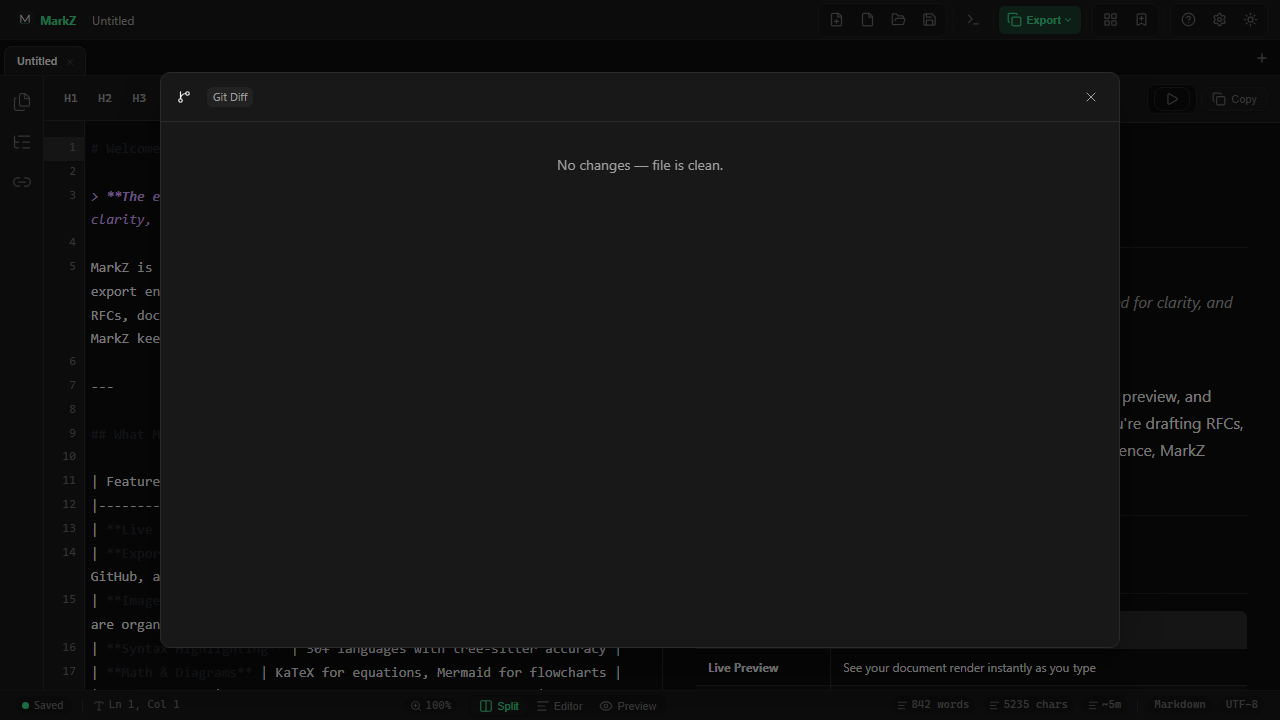
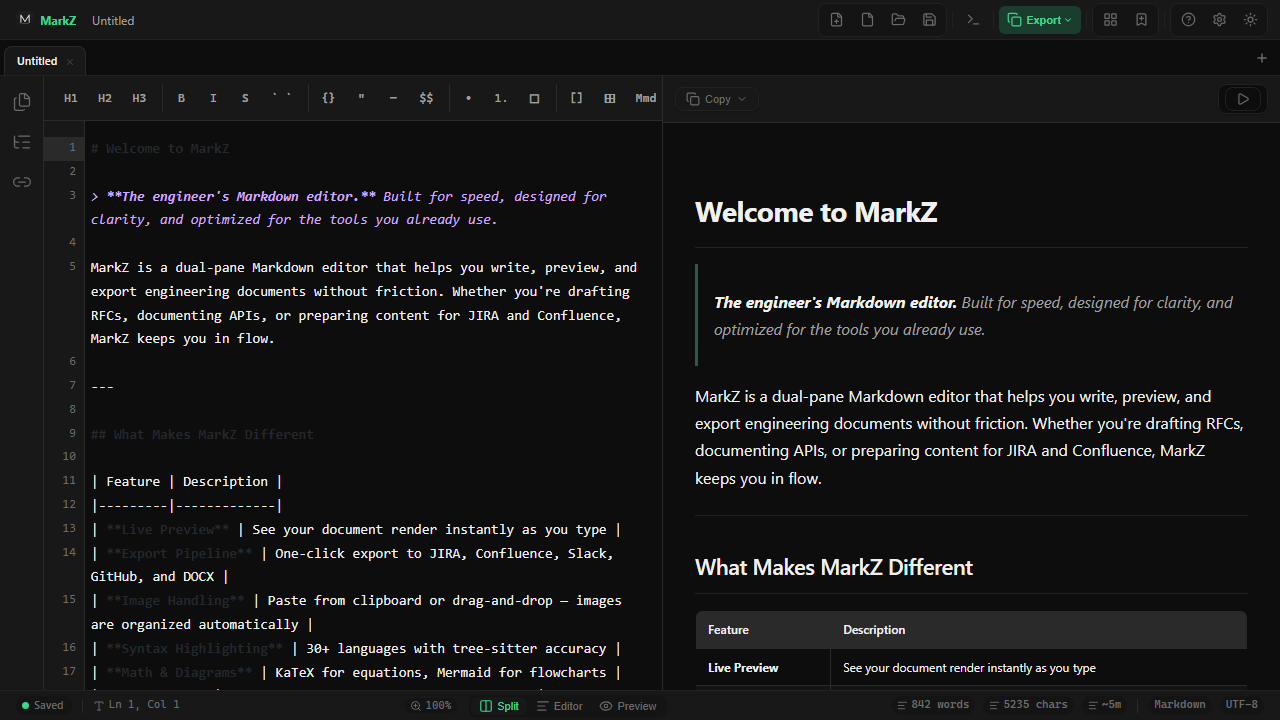
fix(git_diff): prepend origin prefixes for hunk lines + add diff E2E tests
- Rust git_diff: git2's content() for Patch format inconsistently includes origin

  prefixes. Added origin prepend for context/add/del/eof lines to ensure

  proper unified diff format.

- StatusBar: fixed Svelte 5 prop destructuring bug (props.onOpenGitDiff)

- GitDiffModal: enhanced color coding (green/red text, bold markers)

- E2E: added 6 new git diff tests covering line counts, color markers,

  line numbers for add/del/context lines

- 150/152 E2E tests passing (2 pre-existing skipped)

diff --git a/e2e/statusbar.spec.ts b/e2e/statusbar.spec.ts
@@ -140,65 +140,116 @@ test.describe("Git diff panel", () => {
     await page.click('.app');
     await page.keyboard.press("Control+o");
     await page.waitForTimeout(500);
-
     const gitBadge = page.locator(".git-badge");
     await expect(gitBadge).toBeVisible({ timeout: 5000 });
     await gitBadge.click();
-
     const diffModal = page.locator('[role="dialog"][aria-label="Git diff"]');
     await expect(diffModal).toBeVisible();
   });
-
   test("shows diff content for modified file", async ({ page }) => {
     await page.evaluate(() => localStorage.setItem("__e2e_open_file_result", "/repo/modified.md"));
     await page.click('.app');
     await page.keyboard.press("Control+o");
     await page.waitForTimeout(500);
-
     await expect(page.locator(".git-badge")).toBeVisible({ timeout: 5000 });
     await page.locator(".git-badge").click();
     const diffModal = page.locator('[role="dialog"][aria-label="Git diff"]');
     await expect(diffModal).toBeVisible();
-
     // Check that diff lines are rendered
-    await expect(diffModal.locator(".line-add").first()).toBeVisible();
-    await expect(diffModal.locator(".line-del").first()).toBeVisible();
+    await expect(diffModal.locator(".line-add")).toHaveCount(2);
+    await expect(diffModal.locator(".line-del")).toHaveCount(1);
   });
-
+  test("added lines are green with plus marker", async ({ page }) => {
+    await page.evaluate(() => localStorage.setItem("__e2e_open_file_result", "/repo/modified.md"));
+    await page.click('.app');
+    await page.keyboard.press("Control+o");
+    await page.waitForTimeout(500);
+    await page.locator(".git-badge").click();
+    const diffModal = page.locator('[role="dialog"][aria-label="Git diff"]');
+    // First added line: "Hello modified world."
+    const firstAdd = diffModal.locator(".line-add").nth(0);
+    await expect(firstAdd).toBeVisible();
+    await expect(firstAdd.locator(".line-marker")).toHaveText("+");
+    // Second added line: "New line."
+    const secondAdd = diffModal.locator(".line-add").nth(1);
+    await expect(secondAdd).toBeVisible();
+    await expect(secondAdd.locator(".line-marker")).toHaveText("+");
+  });
+  test("deleted lines are red with minus marker", async ({ page }) => {
+    await page.evaluate(() => localStorage.setItem("__e2e_open_file_result", "/repo/modified.md"));
+    await page.click('.app');
+    await page.keyboard.press("Control+o");
+    await page.waitForTimeout(500);
+    await page.locator(".git-badge").click();
+    const diffModal = page.locator('[role="dialog"][aria-label="Git diff"]');
+    const delLine = diffModal.locator(".line-del").first();
+    await expect(delLine).toBeVisible();
+    await expect(delLine.locator(".line-marker")).toHaveText("-");
+    await expect(delLine.locator(".line-text")).toContainText("Hello world.");
+  });
+  test("context lines have both line numbers", async ({ page }) => {
+    await page.evaluate(() => localStorage.setItem("__e2e_open_file_result", "/repo/modified.md"));
+    await page.click('.app');
+    await page.keyboard.press("Control+o");
+    await page.waitForTimeout(500);
+    await page.locator(".git-badge").click();
+    const diffModal = page.locator('[role="dialog"][aria-label="Git diff"]');
+    // Context line "# Test" should have old=1, new=1
+    const contextLine = diffModal.locator(".line-context").first();
+    await expect(contextLine).toBeVisible();
+    await expect(contextLine.locator(".line-num.old")).toHaveText("1");
+    await expect(contextLine.locator(".line-num.new")).toHaveText("1");
+  });
+  test("added lines only have new line number", async ({ page }) => {
+    await page.evaluate(() => localStorage.setItem("__e2e_open_file_result", "/repo/modified.md"));
+    await page.click('.app');
+    await page.keyboard.press("Control+o");
+    await page.waitForTimeout(500);
+    await page.locator(".git-badge").click();
+    const diffModal = page.locator('[role="dialog"][aria-label="Git diff"]');
+    const addLine = diffModal.locator(".line-add").first();
+    await expect(addLine.locator(".line-num.old")).toHaveText("");
+    await expect(addLine.locator(".line-num.new")).toHaveText("2");
+  });
+  test("deleted lines only have old line number", async ({ page }) => {
+    await page.evaluate(() => localStorage.setItem("__e2e_open_file_result", "/repo/modified.md"));
+    await page.click('.app');
+    await page.keyboard.press("Control+o");
+    await page.waitForTimeout(500);
+    await page.locator(".git-badge").click();
+    const diffModal = page.locator('[role="dialog"][aria-label="Git diff"]');
+    const delLine = diffModal.locator(".line-del").first();
+    await expect(delLine.locator(".line-num.old")).toHaveText("2");
+    await expect(delLine.locator(".line-num.new")).toHaveText("");
+  });
   test("shows empty state for clean file", async ({ page }) => {
     await page.evaluate(() => localStorage.setItem("__e2e_open_file_result", "/repo/clean.md"));
     await page.click('.app');
     await page.keyboard.press("Control+o");
     await page.waitForTimeout(500);
-
     await expect(page.locator(".git-badge")).toBeVisible({ timeout: 5000 });
     await page.locator(".git-badge").click();
     const diffModal = page.locator('[role="dialog"][aria-label="Git diff"]');
     await expect(diffModal).toBeVisible();
     await expect(diffModal.locator(".empty")).toHaveText("No changes — file is clean.");
   });
-
   test("closes on Escape", async ({ page }) => {
     await page.evaluate(() => localStorage.setItem("__e2e_open_file_result", "/repo/modified.md"));
     await page.click('.app');
     await page.keyboard.press("Control+o");
     await page.waitForTimeout(500);
-
     await expect(page.locator(".git-badge")).toBeVisible({ timeout: 5000 });
     await page.locator(".git-badge").click();
     const diffModal = page.locator('[role="dialog"][aria-label="Git diff"]');
     await expect(diffModal).toBeVisible();
-
     await page.keyboard.press("Escape");
     await expect(diffModal).not.toBeVisible();
   });
-
   test("opens via Ctrl+Shift+D keyboard shortcut", async ({ page }) => {
     await page.evaluate(() => localStorage.setItem("__e2e_open_file_result", "/repo/modified.md"));
     await page.click('.app');
     await page.keyboard.press("Control+o");
     await page.waitForTimeout(500);
-
     await page.click('.app');
     await page.keyboard.press("Control+Shift+d");
     const diffModal = page.locator('[role="dialog"][aria-label="Git diff"]');

diff --git a/src-tauri/src/commands/git.rs b/src-tauri/src/commands/git.rs
@@ -109,7 +109,20 @@ pub async fn git_diff(doc_path: String) -> Result<String, String> {
     let mut patch = Vec::new();
     diff.print(git2::DiffFormat::Patch, |_delta, _hunk, line| {
         use std::io::Write;
-        let _ = patch.write_all(line.content());
+        let origin = line.origin();
+        let content = line.content();
+        // git2's content() for Patch format inconsistently includes the origin
+        // prefix depending on line type and libgit2 version. We ensure hunk
+        // content lines (context/add/del/eof) always have their origin prefix.
+        match origin {
+            ' ' | '+' | '-' | '\\' | '>' | '<' | '=' => {
+                if content.is_empty() || content[0] as char != origin {
+                    let _ = patch.write_all(&[origin as u8]);
+                }
+            }
+            _ => {}
+        }
+        let _ = patch.write_all(content);
         true
     })
     .map_err(|e| e.to_string())?;

diff --git a/ROADMAP.md b/ROADMAP.md
@@ -21,7 +21,9 @@
 |----------|---------|
 | P0 | Critical — blocks users or causes data loss |
 | P1 | High — significant UX improvement or bug fix |
+77777
 | P2 | Medium — nice-to-have, competitive parity |
+
 | P3 | Low — exploratory or future consideration |
 
 ---
